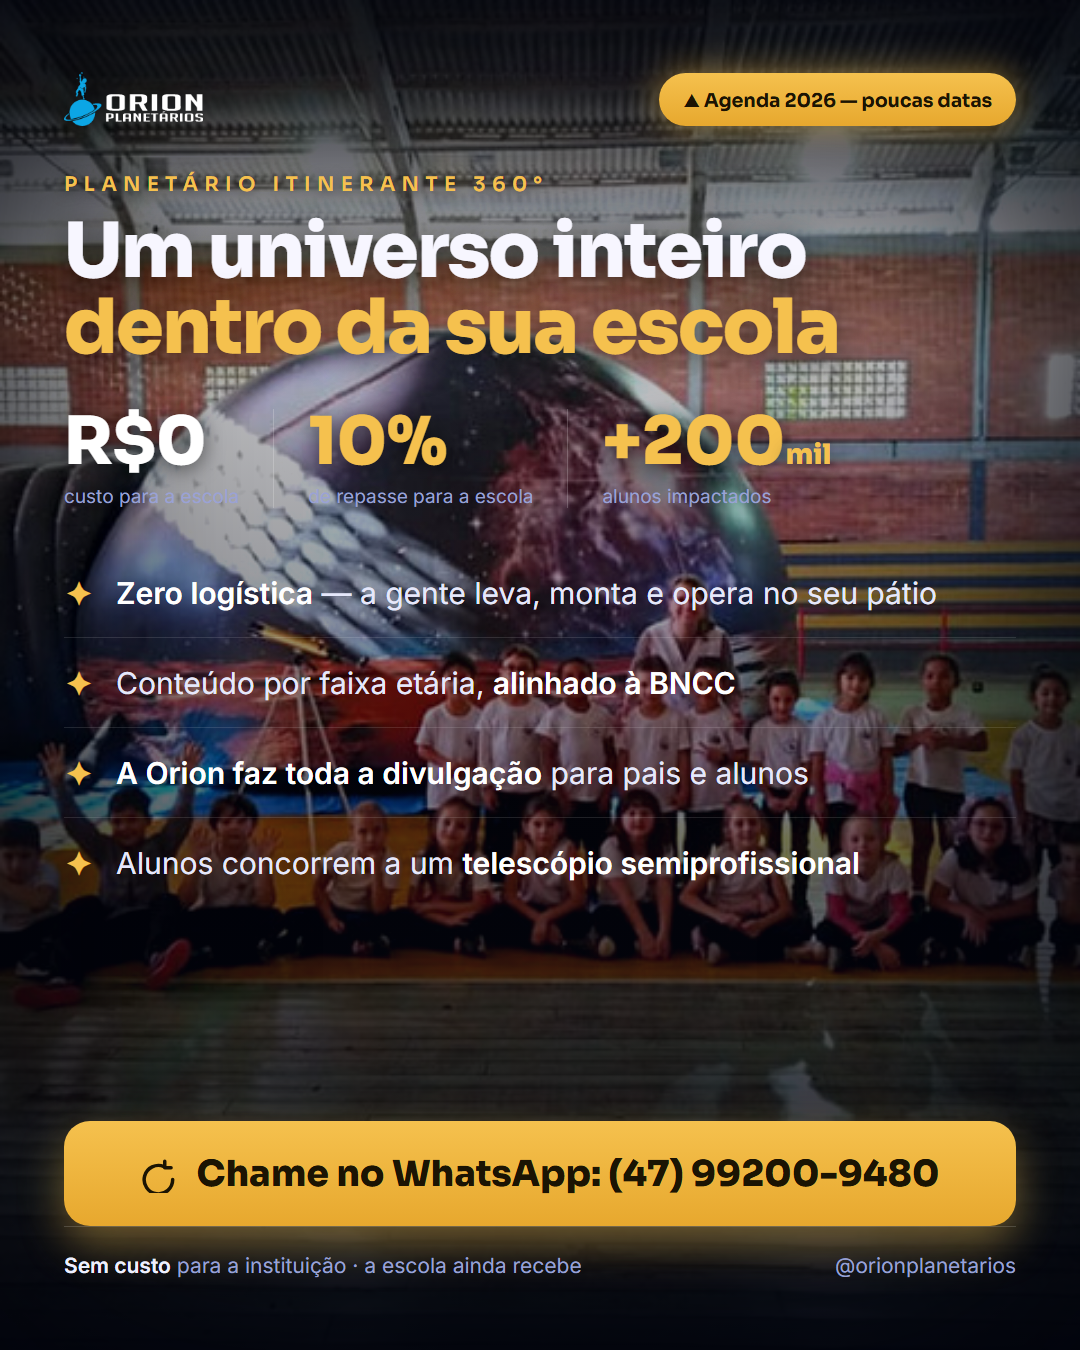
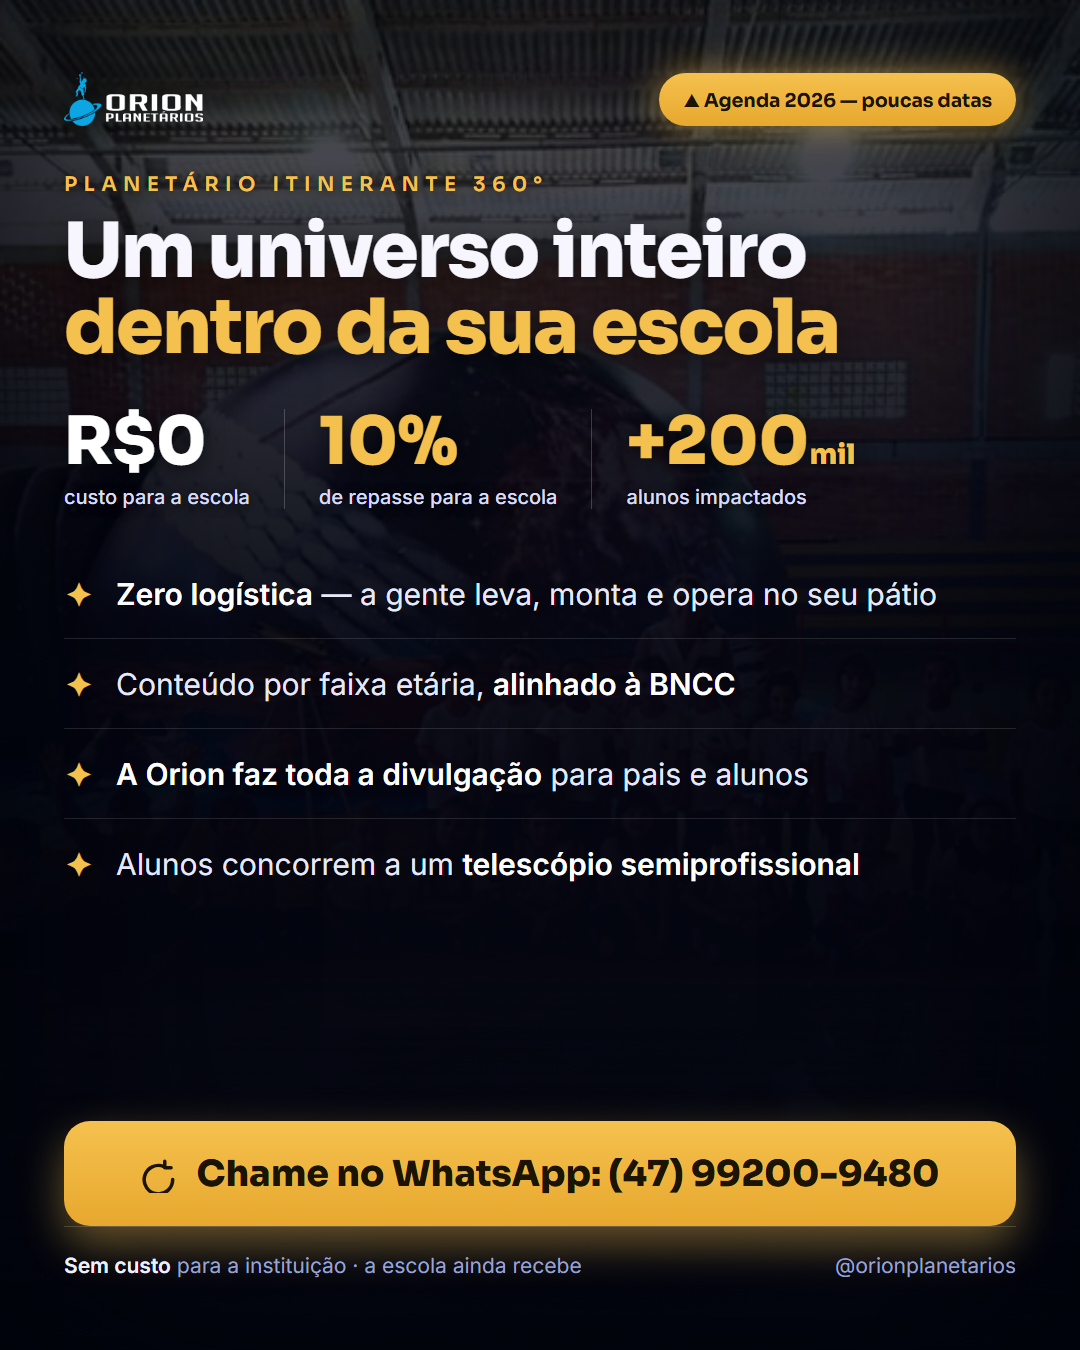
Criativos: corrige legibilidade de headline e textos
- novo scrim s-reader (foto no topo, overlay quase solido na metade de baixo onde fica o texto denso)
- foto geral -18% brilho (brightness .82) para domar fundos claros
- sublabels dos numeros mais claros (#D8DCFA) + sombra
- 02: troca fundo dome-wide (ORION estampado colidia com texto) por dome1.jpg limpo
- PNGs regenerados

diff --git a/docs/criativos/_base.css b/docs/criativos/_base.css
@@ -9,11 +9,13 @@
 html,body{width:1080px;height:1350px;overflow:hidden;color:var(--ink);font-family:var(--sans);
   -webkit-print-color-adjust:exact;print-color-adjust:exact;background:#02030a}
 .stage{position:relative;width:1080px;height:1350px;overflow:hidden;display:flex;flex-direction:column}
-.bg{position:absolute;inset:0;z-index:0;background-size:cover;background-position:center;filter:contrast(1.06) saturate(1.12)}
+.bg{position:absolute;inset:0;z-index:0;background-size:cover;background-position:center;filter:contrast(1.06) saturate(1.12) brightness(.82)}
 .scrim{position:absolute;inset:0;z-index:1}
 .s-hero{background:linear-gradient(180deg,rgba(3,5,16,.82) 0%,rgba(3,5,16,.22) 24%,rgba(3,5,16,.5) 56%,rgba(3,5,16,.97) 100%)}
 .s-bottom{background:linear-gradient(180deg,rgba(3,5,16,.72) 0%,rgba(3,5,16,.22) 18%,rgba(3,5,16,.6) 58%,rgba(3,5,16,.98) 100%)}
 .s-veil{background:linear-gradient(180deg,rgba(3,5,16,.88) 0%,rgba(3,5,16,.6) 42%,rgba(3,5,16,.82) 100%)}
+/* s-reader: foto visivel no topo, escurece ate quase solido na metade de baixo (texto denso legivel) */
+.s-reader{background:linear-gradient(180deg,rgba(3,5,16,.48) 0%,rgba(3,5,16,.80) 26%,rgba(3,5,16,.93) 46%,rgba(3,5,16,.98) 70%,rgba(3,5,16,.99) 100%)}
 .vign{box-shadow:inset 0 0 220px 60px rgba(2,3,10,.72)}
 
 .pad{position:relative;z-index:3;padding:72px 64px;display:flex;flex-direction:column;flex:1}
@@ -38,7 +40,7 @@ h2{font-family:var(--disp);font-weight:800;font-size:50px;line-height:1.04;lette
 .st .n{font-family:var(--disp);font-weight:800;font-size:66px;color:var(--gold);line-height:1;text-shadow:0 3px 20px rgba(0,0,0,.6)}
 .st .n i{font-style:normal;font-size:28px}
 .st .n.wht{color:#fff}
-.st .l{display:block;font-size:19px;color:var(--soft);margin-top:10px}
+.st .l{display:block;font-size:20px;color:#D8DCFA;font-weight:500;margin-top:10px;text-shadow:0 2px 12px rgba(0,0,0,.8)}
 
 /* lista de benefícios — sem card */
 .list{display:flex;flex-direction:column}

diff --git a/docs/criativos/02_como_funciona.html b/docs/criativos/02_como_funciona.html
@@ -3,8 +3,8 @@
 <link rel="stylesheet" href="_base.css">
 </head><body>
 <div class="stage">
-  <div class="bg" style="background-image:url('../assets/dome-wide.jpg')"></div>
-  <div class="scrim s-bottom"></div><div class="scrim vign"></div>
+  <div class="bg" style="background-image:url('../assets/dome1.jpg')"></div>
+  <div class="scrim s-reader"></div><div class="scrim vign"></div>
   <div class="pad">
     <div class="top">
       <img class="brand" src="../assets/logo-orion.png" alt="Orion Planetários">

diff --git a/docs/criativos/01_resumo.html b/docs/criativos/01_resumo.html
@@ -4,7 +4,7 @@
 </head><body>
 <div class="stage">
   <div class="bg" style="background-image:url('../assets/sessao1.jpg')"></div>
-  <div class="scrim s-hero"></div><div class="scrim vign"></div>
+  <div class="scrim s-reader"></div><div class="scrim vign"></div>
   <div class="pad">
     <div class="top">
       <img class="brand" src="../assets/logo-orion.png" alt="Orion Planetários">
